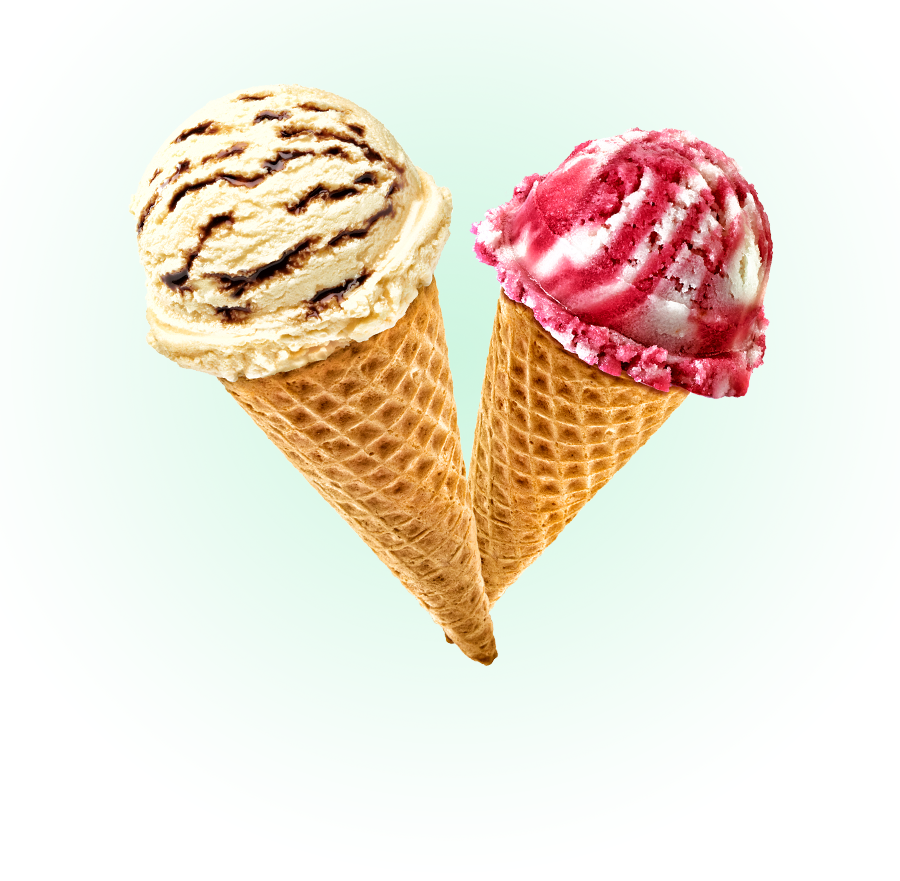
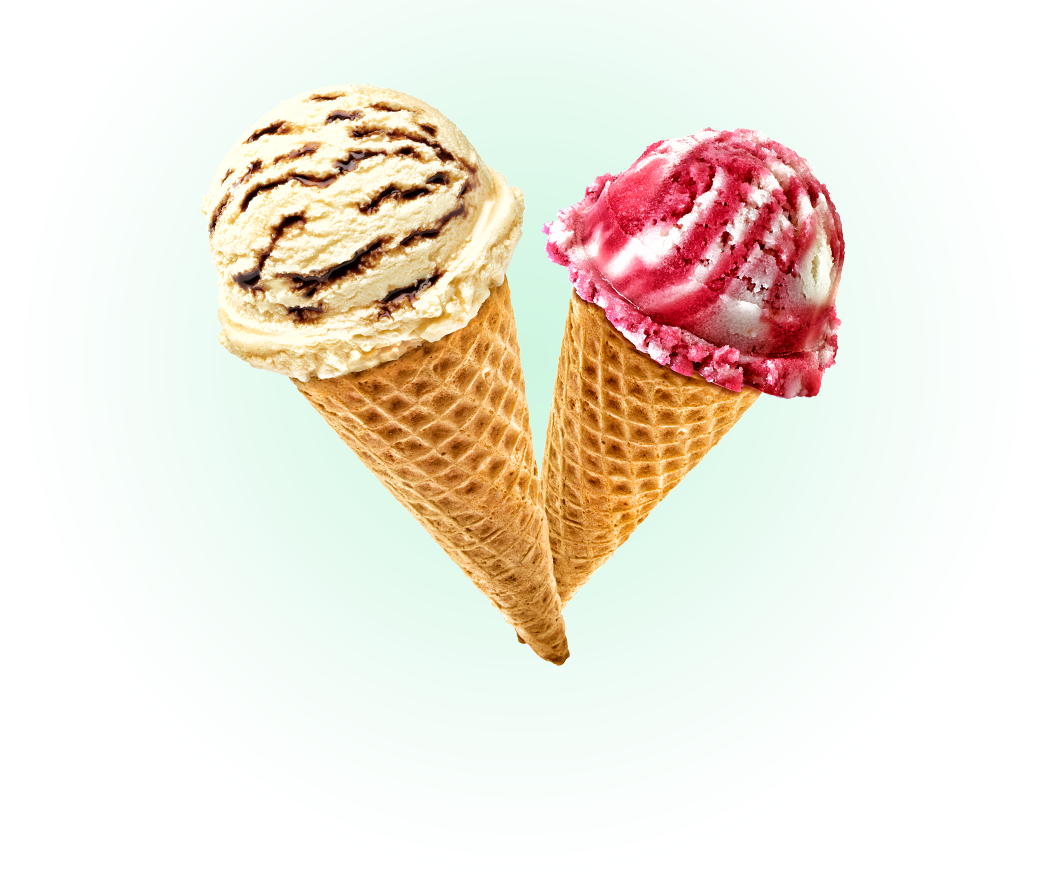
new-page

Changed region(s): [[0.1244, 0.0919, 0.8711, 0.7662]]

diff --git a/css/@media.css b/css/@media.css
@@ -11,11 +11,16 @@
     .populars div {
         margin-bottom: 80px;
     }
+    .main-proposition img {
+        height: auto; 
+        width: auto; 
+    }
     .our-features {
         margin: 0px 27px 27px 27px;
     }
   }
 @media (max-width:900px) {
+
     body.lock {
         overflow: hidden;
     }
@@ -118,7 +123,7 @@
         transform: rotate(-45deg);
     }
     
-    
+
     .options.burger-active {
         position: absolute;
         display: block;
@@ -166,7 +171,8 @@
         width: 100%;
     }
     .main-proposition img {
-        display: block;
+        height: auto; 
+        max-width: 50%; 
     }
     .main-proposition h1 {
         display: inline-block;
@@ -187,7 +193,7 @@
     }
     .proposition a {
         margin-top: 70px;
-        margin-left: 500px;
+        margin-left: auto;
     }
     .our-features div {
         margin: 0px 27px 27px 27px;
@@ -214,5 +220,71 @@
     }
     .subscribe .subscribe-container input {
         width: 600px;
+    }
+}
+@media (max-width:600px) {
+    .phone {
+        position: absolute;
+        display: flex;
+        flex-direction: row;
+        justify-content: center;
+        align-items: center;
+        max-width: 340px;
+        top: 35%;
+        right: 6%;
+    }
+    .phone p {
+        display: none;
+        margin-bottom: 0px;
+        margin-top: 0px;
+        margin-right: 10px;
+        font-size: 14px;
+        line-height: 16px;
+    }
+    .phone a {
+        display: none;
+        font-size: 22px;
+        line-height: 24px;
+    }
+    .main-proposition {
+        display: flex;
+        flex-direction: column;
+        justify-content: space-evenly;
+        align-items: center;
+        position: relative;
+    
+        height: auto;
+        margin: 0px 27px;
+    }
+    .main-proposition h1 {
+        display: inline-block;
+        text-align: center;
+        margin-top: 60px;
+        margin-left: 27px;
+        margin-right: 27px;
+        font-size: 36px;
+        line-height: 36px;
+    }
+    .proposition a {
+        margin: 20px auto;
+       
+    }
+
+
+    footer .container {
+        display: flex;
+        flex-direction: column;
+        justify-content: center;
+    }
+    footer .container ul {
+        margin-top: 10px;
+    }
+    footer .developer {
+        display: flex;
+        align-items: center;
+        margin: 10px;
+    }
+    footer .developer p {
+        margin-left: 10px;
     }
 }

diff --git a/css/style.css b/css/style.css
@@ -269,7 +269,6 @@ header {
 .main-container {
     margin: 0px auto;
     max-width: 1200px;
-    
 }
 
 .main-proposition {
@@ -287,9 +286,10 @@ header {
     display: block;
     position: absolute;
     z-index: -1;
-    margin: 100px 0px 0px 0px;
+    margin-bottom: auto;
     height: auto;
     max-width: 100%;
+  
 }
 .main-proposition h1 {
     display: inline-block;
@@ -337,8 +337,8 @@ header {
     background-image: linear-gradient(#d74632, #e1613e); 
     box-shadow: 0px -1px 3px 0px #ac1000;
 }
-/* proposition */
 
+/* proposition */
 .proposition {
     display: flex;
     justify-content: space-between;
@@ -378,7 +378,6 @@ header {
     margin-right: 10px;
 }
    
-
 /* populars */
 .populars {
     display: flex;
@@ -396,7 +395,7 @@ header {
 }
 
 .populars a {
-    transform: scale(0);
+    display: none;
     margin: 15px auto;
     width: 202px;
     height: 46px;
@@ -446,6 +445,7 @@ header {
     height: 267px;
     border-radius: 50%;
     cursor: pointer;
+   
 }
 .popular-4 {
     position: relative;
@@ -455,12 +455,13 @@ header {
     border-radius: 50%;
     cursor: pointer;
 }
+
 .populars div:active,
 .populars div:hover {
     transform: scale(1.1);
 }
 .populars div:hover a {
-    transform: scale(1.1);
+    display: flex;
 }
 .populars div:hover .description {
     text-decoration-color: #a9bbb1;
@@ -469,10 +470,8 @@ header {
 }
 
 /* our-features */
-
 .our-features {
     color: #323232;
-
     margin: 100px 27px 27px 27px;
 }
 .our-features div {
@@ -549,7 +548,7 @@ header {
     padding-bottom: 0;
 }
 .news {
-    width: 49%;
+    width: 48%;
     min-height: 220px;
     color: #323232;
     background-image: url(../img/strawberry.jpg);
@@ -559,7 +558,7 @@ header {
     margin: 24px 0px 8px 20px;
 }
 .subscribe {
-    width: 49%;
+    width: 48%;
     min-height: 220px;
     color: #5a5a5a;
     background-image: url(../img/svg/bg-post.svg);
@@ -606,8 +605,7 @@ header {
     border-color: #999999;
 }
 
-/* map */
-
+/* MAP */
 .map {
     position: relative;
     width: 100%;
@@ -622,7 +620,7 @@ iframe {
     margin-left: -50%;
 }
 .adress-info {
-    position: absolute;
+  
     display: flex;
     flex-direction: column;
     align-items: center;
@@ -636,7 +634,8 @@ iframe {
     height: 300px;
 
     margin-top: -360px;
-    margin-left: 0%;
+    margin-left: auto;
+    margin-right: 27px;
 }
 /*.adress-info::before {
     position: absolute;

diff --git a/index.html b/index.html
@@ -111,7 +111,7 @@
     <main>
         <div class="main-container">
             <section class="main-proposition">
-                <img src="img\ice-cream.png"  width="900" height="881" alt="логотип Gllacy">
+                <img src="img\ice-cream.png"  width="1045" height="881" alt="логотип Gllacy">
                 <h1>Крем-брюле и пломбир<br>с малиновым джемом</h1>
                 <a class="button" href="#">Давайте оба!</a>
                 <ul class="radio-btn">
@@ -193,7 +193,7 @@
             <section class="map">
                 <iframe class="map" src="https://www.google.com/maps/embed?pb=!1m18!1m12!1m3!1d2536.8399091071087!2d30.780254615157574!3d50.51854549033778!2m3!1f0!2f0!3f0!3m2!1i1024!2i768!4f13.1!3m3!1m2!1s0x40d4d976f550c911%3A0x9b039ae5e1a9ceea!2sKyivska%20St%2C%20249%D0%91%2C%20Brovary%2C%20Kyivs&#39;ka%20oblast%2C%2007400!5e0!3m2!1sen!2sua!4v1636889164885!5m2!1sen!2sua" 
                 width="600" height="450" style="border:0;" allowfullscreen="" loading="lazy"></iframe>
-               <img src="img\svg\pin.svg" width="#" height="#" alt="Локация значок">
+                <img src="img\svg\pin.svg" width="#" height="#" alt="Локация значок">
                 <div class="adress-info">
                     <p>Адрес главного офиса<br>и оффлайн магазина:<br><b>ул. Большая Конюшенная<br>19/18, Санкт-Петербург</b></p>
                     <p>Для заказов по телефону:<br><b>8 812 450-25-25</b><br>(с 10 до 20 ежедневно)</p>

diff --git a/js/scripts.js b/js/scripts.js
@@ -1,3 +1,10 @@
+
+
+const element = document.getElementsByClassName('left-option');
+
+
+console.log(element);
+
 $(document).ready(function(){
     $('.header-burger').click(function(event){
         $('.options').toggleClass('burger-active');
@@ -5,3 +12,4 @@ $(document).ready(function(){
         $('body').toggleClass('lock');
     });
 }); 
+
